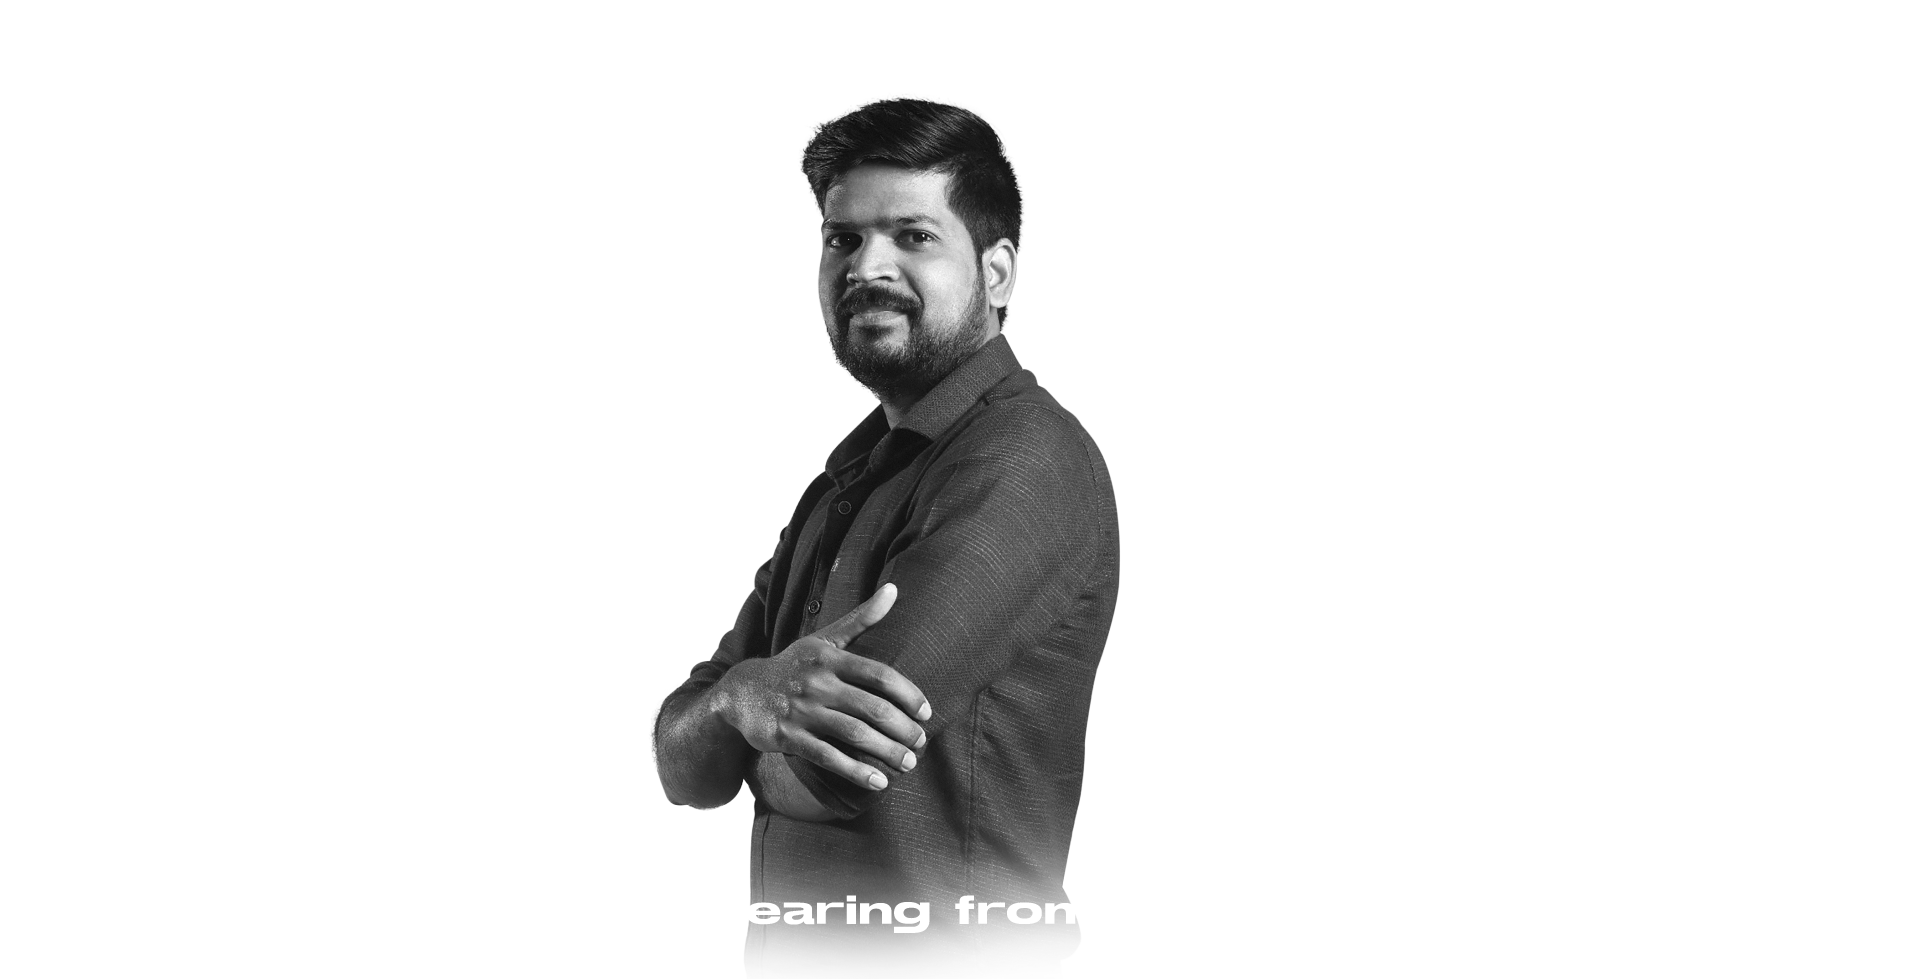
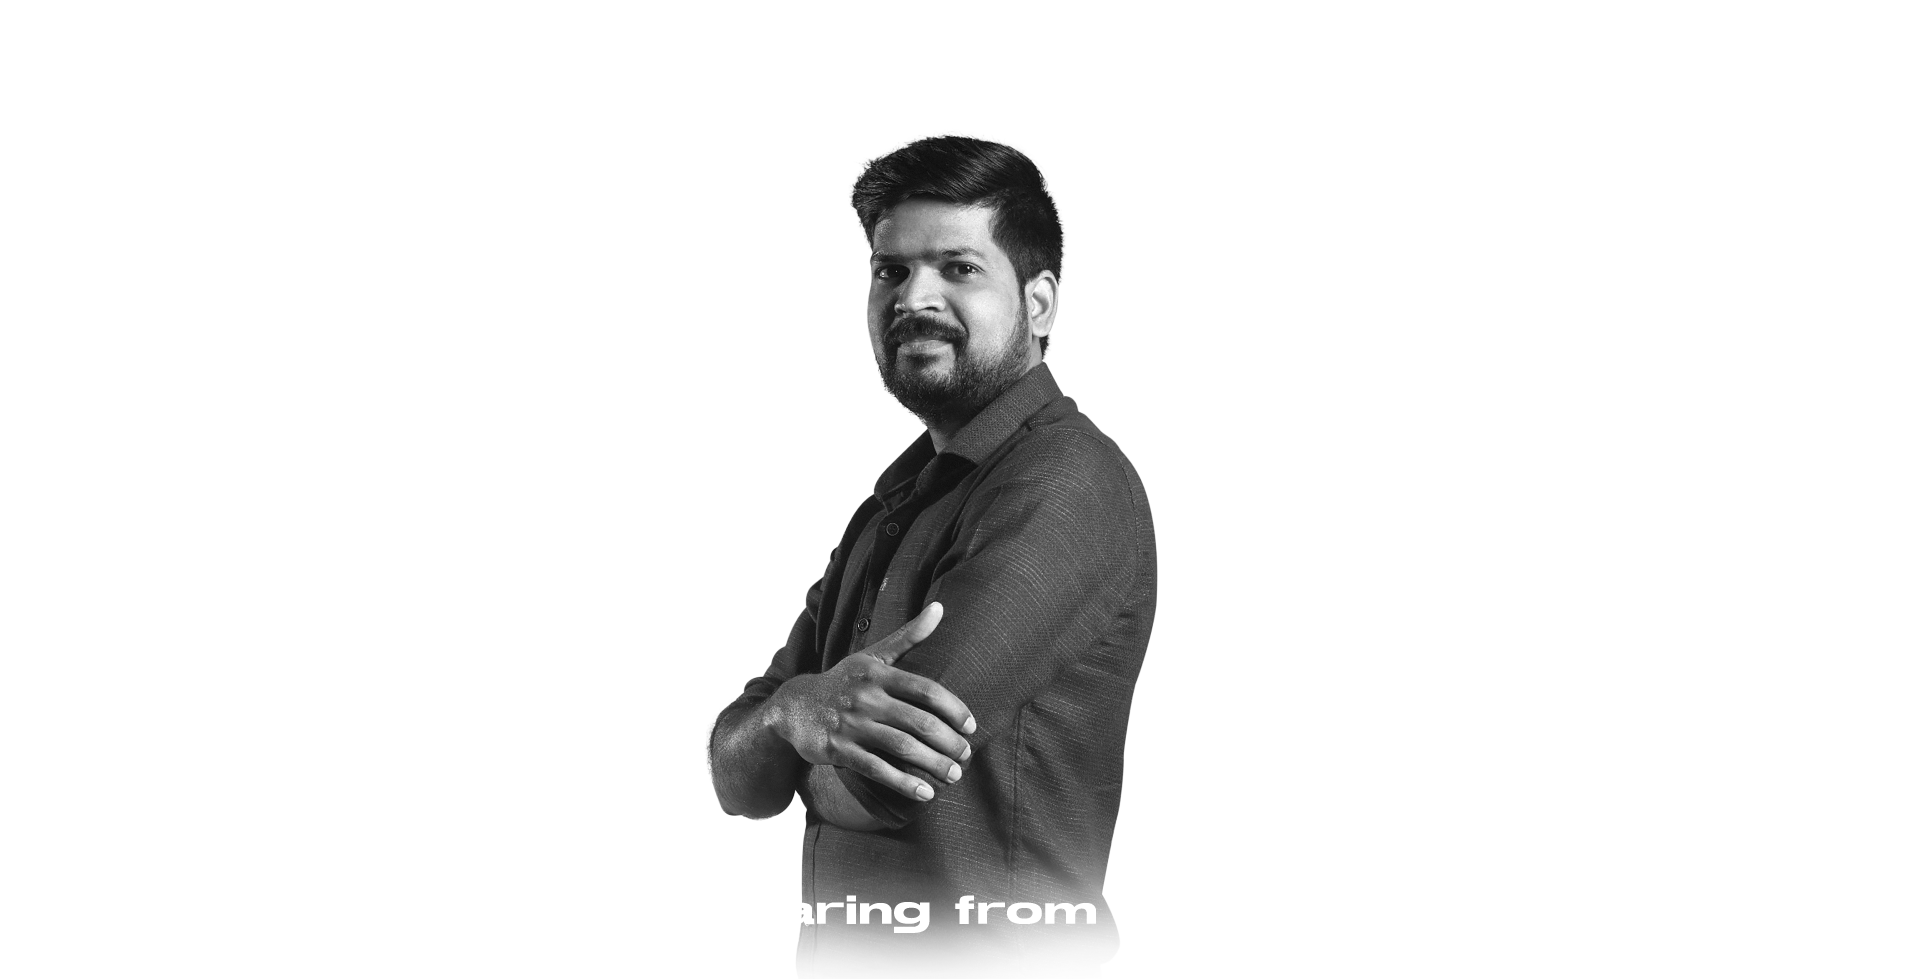
css changes

Changed region(s): [[0.3125, 0.0919, 0.625, 0.9806]]

diff --git a/index.html b/index.html
@@ -9,115 +9,182 @@
     <link href="https://cdn.jsdelivr.net/npm/bootstrap@5.2.1/dist/css/bootstrap.min.css" rel="stylesheet">
     <script src="https://cdn.jsdelivr.net/npm/bootstrap@5.2.1/dist/js/bootstrap.bundle.min.js"></script>
     <link rel="preconnect" href="https://fonts.googleapis.com">
-<link rel="preconnect" href="https://fonts.gstatic.com" crossorigin>
-<link href="https://fonts.googleapis.com/css2?family=Archivo+Black&display=swap" rel="stylesheet">
+    <link rel="preconnect" href="https://fonts.gstatic.com" crossorigin>
+    <link href="https://fonts.googleapis.com/css2?family=Archivo+Black&display=swap" rel="stylesheet">
     <style>
         body {
             width: 100%;
             height: 100vh;
             font-family: 'Archivo Black', sans-serif;
         }
-        
+
         img.mx-auto.img-responsive {
             max-width: 100%;
             max-height: 100vh;
             /* width: 100%; */
             /* height: 100%; */
         }
-        
+
         .container-fluid.p-0 {
             width: 100%;
             height: 100vh;
             background: #111113;
             text-align: center;
         }
-        
-        @media (max-width: 767.98px) {
+
+        @media (max-width: 761.9px) {
             a {
-            font-family: 'Archivo Black', sans-serif;
-            background-color: #000;
-            color: #fff;
-            position: absolute;
-            font-size: 18px;
-            left: calc(50% - 123px);
-    top: 76px;
-    text-decoration: none;
-    padding: 8px 16px;
-    border-radius: 32px;
-    animation-duration: 1200ms;
-    animation-name: blink;
-    animation-iteration-count: infinite;
-    animation-direction: alternate;
-    -webkit-animation:blink 1200ms infinite; /* Safari and Chrome */
-}
-svg {
-    max-width: 14px;
-    width: 14px;
-    margin-left: 8px;
-}
-            .mobile {
+                font-family: 'Archivo Black', sans-serif;
+                background-color: #000;
+                color: #fff;
+                position: absolute;
+                font-size: 18px;
+                left: calc(50% - 123px);
+                top: 76px;
+                text-decoration: none;
+                padding: 8px 16px;
+                border-radius: 32px;
+                animation-duration: 1200ms;
+                animation-name: blink;
+                animation-iteration-count: infinite;
+                animation-direction: alternate;
+                -webkit-animation: blink 1200ms infinite;
+                /* Safari and Chrome */
+            }
+
+            svg {
+                max-width: 14px;
+                width: 14px;
+                margin-left: 8px;
+            }
+
+            .desktop, .tablet {
                 display: none;
             }
         }
         
-        @media (min-width: 768px) {
+        @media screen and (min-width: 762px) and (max-width: 1279.9px) {
             a {
-            font-family: 'Archivo Black', sans-serif;
-            background-color: #000;
-            color: #fff;
-            position: absolute;
-            font-size: 28px;
-    right: 30px;
-    top: 30px;
-    text-decoration: none;
-    padding: 8px 24px;
-    border-radius: 32px;
-    animation-duration: 1200ms;
-    animation-name: blink;
-    animation-iteration-count: infinite;
-    animation-direction: alternate;
-    -webkit-animation:blink 1200ms infinite; /* Safari and Chrome */
-}
-svg {
-    max-width: 22px;
-    width: 22px;
-    margin-left: 12px;
-}
-            .desktop {
+                font-family: 'Archivo Black', sans-serif;
+                background-color: #000;
+                color: #fff;
+                position: absolute;
+                font-size: 28px;
+                right: 30px;
+                top: 30px;
+                text-decoration: none;
+                padding: 8px 24px;
+                border-radius: 32px;
+                animation-duration: 1200ms;
+                animation-name: blink;
+                animation-iteration-count: infinite;
+                animation-direction: alternate;
+                -webkit-animation: blink 1200ms infinite;
+                /* Safari and Chrome */
+            }
+
+            svg {
+                max-width: 22px;
+                width: 22px;
+                margin-left: 12px;
+            }
+            .desktop, .mobile {
                 display: none;
             }
         }
+        @media (min-width: 1280px) {
+            a {
+                font-family: 'Archivo Black', sans-serif;
+                background-color: #000;
+                color: #fff;
+                position: absolute;
+                font-size: 28px;
+                right: 30px;
+                top: 30px;
+                text-decoration: none;
+                padding: 8px 24px;
+                border-radius: 32px;
+                animation-duration: 1200ms;
+                animation-name: blink;
+                animation-iteration-count: infinite;
+                animation-direction: alternate;
+                -webkit-animation: blink 1200ms infinite;
+                /* Safari and Chrome */
+            }
+
+            svg {
+                max-width: 22px;
+                width: 22px;
+                margin-left: 12px;
+            }
+            .mobile, .tablet {
+                display: none;
+            }
+        }
+
         a:hover {
             color: #fff;
         }
-        
-@keyframes blink {
-    0%   {background-color:green;}
-    25% { background-color:red;}
-    50% { background-color:blue;}
 
-    75% { background-color:purple;}
-  100% {background-color:black;}
-}
-@-webkit-keyframes blink {
-    0%   {background-color:black;}
-    25% { background-color:purple;}
-    50% { background-color:blue;}
-    75% { background-color:red;}
-  100% {background-color:green;}
+        @keyframes blink {
+            0% {
+                background-color: green;
+            }
 
-  
-}
+            25% {
+                background-color: red;
+            }
+
+            50% {
+                background-color: blue;
+            }
+
+            75% {
+                background-color: purple;
+            }
+
+            100% {
+                background-color: black;
+            }
+        }
+
+        @-webkit-keyframes blink {
+            0% {
+                background-color: black;
+            }
+
+            25% {
+                background-color: purple;
+            }
+
+            50% {
+                background-color: blue;
+            }
+
+            75% {
+                background-color: red;
+            }
+
+            100% {
+                background-color: green;
+            }
 
 
+        }
     </style>
 </head>
 
 <body>
-    <a href="images/pandiyankanna-portfolio-2023.pdf" target="_blank">Portfolio <svg xmlns="http://www.w3.org/2000/svg" fill="#fff" viewBox="0 0 384 512"><!--! Font Awesome Pro 6.4.2 by @fontawesome - https://fontawesome.com License - https://fontawesome.com/license (Commercial License) Copyright 2023 Fonticons, Inc. --><path d="M169.4 470.6c12.5 12.5 32.8 12.5 45.3 0l160-160c12.5-12.5 12.5-32.8 0-45.3s-32.8-12.5-45.3 0L224 370.8 224 64c0-17.7-14.3-32-32-32s-32 14.3-32 32l0 306.7L54.6 265.4c-12.5-12.5-32.8-12.5-45.3 0s-12.5 32.8 0 45.3l160 160z"/></svg></a>
+    <a href="images/pandiyankanna-portfolio-2023.pdf" target="_blank">Portfolio <svg xmlns="http://www.w3.org/2000/svg"
+            fill="#fff"
+            viewBox="0 0 384 512"><!--! Font Awesome Pro 6.4.2 by @fontawesome - https://fontawesome.com License - https://fontawesome.com/license (Commercial License) Copyright 2023 Fonticons, Inc. -->
+            <path
+                d="M169.4 470.6c12.5 12.5 32.8 12.5 45.3 0l160-160c12.5-12.5 12.5-32.8 0-45.3s-32.8-12.5-45.3 0L224 370.8 224 64c0-17.7-14.3-32-32-32s-32 14.3-32 32l0 306.7L54.6 265.4c-12.5-12.5-32.8-12.5-45.3 0s-12.5 32.8 0 45.3l160 160z" />
+        </svg></a>
     <div class="container-fluid p-0">
-        <img src="images/web.png" class="mx-auto img-responsive mobile" alt="Pandiyan Kannan landing image">
-        <img src="images/mobile.png" class="mx-auto img-responsive desktop" alt="Pandiyan Kannan landing image">
+        <img src="images/web.png" class="mx-auto img-responsive desktop" alt="Pandiyan Kannan landing image">
+        <img src="images/tab.png" class="mx-auto img-responsive tablet" alt="Pandiyan Kannan landing image">
+        <img src="images/mobile.png" class="mx-auto img-responsive mobile" alt="Pandiyan Kannan landing image">
     </div>
 
 </body>
